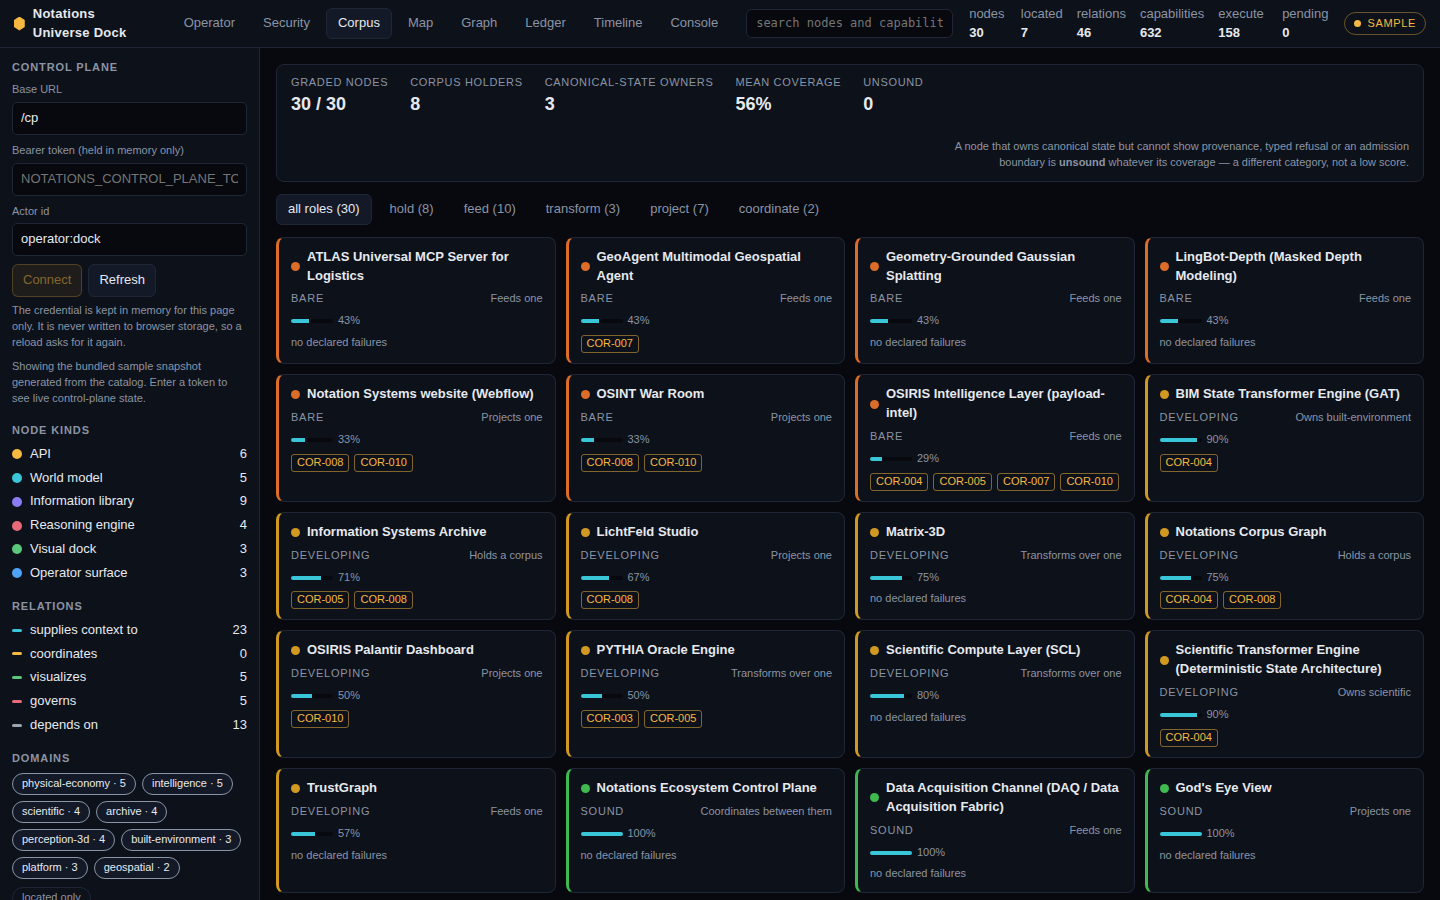
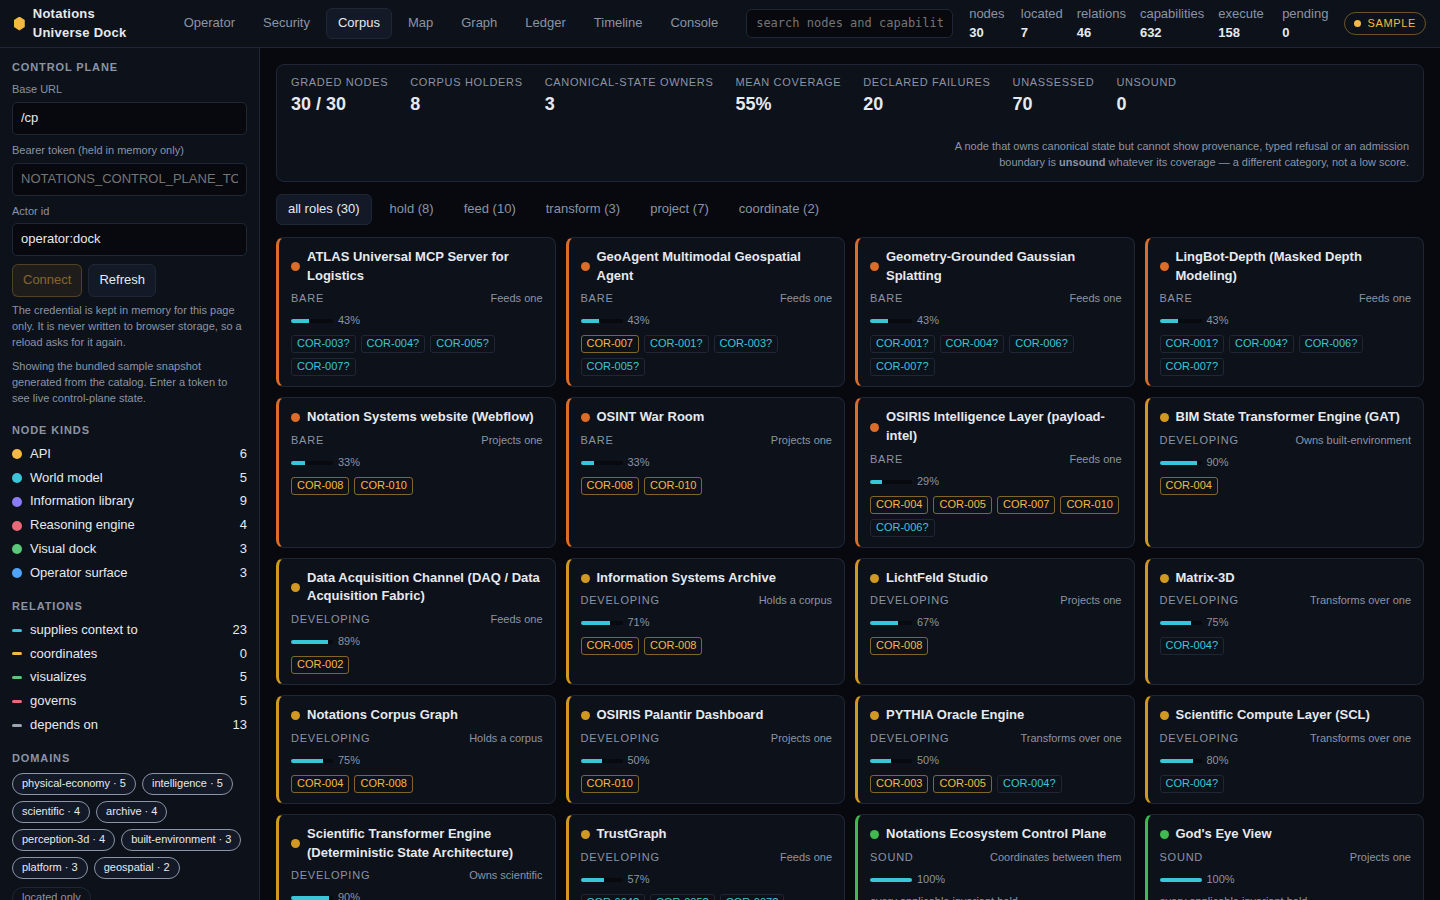
fix(corpus): an exemption hid a single-owner violation, and silence read as assent
Two defects in the instrument, found by reading the catalog back against
the doctrine.

The Data Acquisition Channel declared COR-002 `exempt` because "STE
promotes, and DAQ must never write canonical state directly" — true of
the scientific vertical the note was written about, and silent about the
second half of its own holding sentence. commerce/ holds the Notation
Physical Commerce ledger: commerce.cli.commit is the only command that
writes it, commerce.tender.issue is "the single function that binds the
firm to a counterparty", commerce.outbound.send is the wire boundary, and
the resource is classified sensitive with "commitments bind the firm".
That is a second freight-commitment record, in a domain payload-terminal
declares it owns, inside a node whose declared domain is scientific. The
exemption removed the invariant from the count, so the grader could not
see it. DAQ now declares COR-002 failed and says exactly why, and the
doctrine states the general rule: read an exemption back against the
holding sentence, and if the sentence names something the exemption does
not mention, the exemption is incomplete.

The grader now also reports domains with **no** declared owner. COR-002
says at most one owner; it never said every domain has one, and an
unowned domain is precisely where a second owner turns up unannounced.
Five of eight are unowned today, and UNIVERSE.md records where the
commerce ledger should go once Sea Dog Terminal unfreezes.
[…]

diff --git a/dock/src/lenses/CorpusLens.tsx b/dock/src/lenses/CorpusLens.tsx
@@ -111,6 +111,14 @@ export function CorpusLens({ filtered, selected, onSelect }: LensProps) {
           <b>{mean === null ? '—' : `${mean}%`}</b>
         </div>
         <div className="kpi">
+          <span>declared failures</span>
+          <b>{graded.reduce((sum, entry) => sum + entry.standing.fails.length, 0)}</b>
+        </div>
+        <div className="kpi">
+          <span>unassessed</span>
+          <b>{graded.reduce((sum, entry) => sum + entry.standing.unknown.length, 0)}</b>
+        </div>
+        <div className="kpi">
           <span>unsound</span>
           <b style={{ color: unsound.length ? CORPUS_GRADE_COLOR.unsound : undefined }}>{unsound.length}</b>
         </div>
@@ -157,16 +165,21 @@ export function CorpusLens({ filtered, selected, onSelect }: LensProps) {
             <span className="sec-meta">
               <Coverage value={standing.coverage} />
             </span>
-            {standing.fails.length ? (
-              <span className="sec-findings" title="Invariants this node declares it does not hold. Declaring a failure by name is the point; silence would be worse.">
+            {standing.fails.length || standing.unknown.length ? (
+              <span className="sec-findings">
                 {standing.fails.map((id) => (
-                  <span key={id} className="sec-count high">
+                  <span key={id} className="sec-count high" title="Declared not held. Naming a failure is the point; silence would be worse.">
                     {id}
+                  </span>
+                ))}
+                {standing.unknown.map((id) => (
+                  <span key={id} className="sec-count medium" title="Not yet assessed. Counts against the node — silence is not assent.">
+                    {id}?
                   </span>
                 ))}
               </span>
             ) : (
-              <span className="sec-findings none">no declared failures</span>
+              <span className="sec-findings none">every applicable invariant held</span>
             )}
           </button>
         ))}

diff --git a/dock/test/corpus.test.ts b/dock/test/corpus.test.ts
@@ -11,7 +11,7 @@ const node = (metadata: Record<string, string | number | boolean>): SnapshotNode
 describe('corpus standing', () => {
   it('reads the derived metadata the seed writes, and nothing else', () => {
     const standing = corpusStanding(node({ corpus_role: 'hold', corpus_grade: 'sound', corpus_coverage: 1 }));
-    expect(standing).toEqual({ role: 'hold', grade: 'sound', coverage: 1, fails: [], ownerOf: [] });
+    expect(standing).toEqual({ role: 'hold', grade: 'sound', coverage: 1, fails: [], unknown: [], ownerOf: [] });
   });
 
   it('splits declared failures so each names an invariant', () => {
@@ -28,6 +28,14 @@ describe('corpus standing', () => {
     const standing = corpusStanding(node({ corpus_role: 'sovereign', corpus_grade: 'sound' }));
     expect(standing?.role).toBeNull();
     expect(standing?.grade).toBe('sound');
+  });
+
+  it('keeps unassessed invariants distinct from held ones', () => {
+    // Without this a node with no declared failures reads as one that holds everything,
+    // and "not assessed" becomes "passed".
+    const standing = corpusStanding(node({ corpus_role: 'feed', corpus_grade: 'bare', corpus_coverage: 0.43, corpus_unknown: 'COR-003 COR-004' }));
+    expect(standing?.unknown).toEqual(['COR-003', 'COR-004']);
+    expect(standing?.fails).toEqual([]);
   });
 
   it('never treats a missing coverage as zero', () => {

diff --git a/dock/src/model/types.ts b/dock/src/model/types.ts
@@ -142,6 +142,8 @@ export interface CorpusStanding {
   grade: CorpusGrade;
   coverage: number | null;
   fails: string[];
+  /** Invariants not yet assessed. Silence is not assent, so these count against a node. */
+  unknown: string[];
   /** Domains whose canonical state this node owns. Holding a corpus is not owning one. */
   ownerOf: string[];
 }
@@ -159,6 +161,7 @@ export function corpusStanding(node: SnapshotNode): CorpusStanding | null {
     grade: grade as CorpusGrade,
     coverage: typeof coverage === 'number' ? coverage : null,
     fails: words(fails),
+    unknown: words(node.metadata.corpus_unknown),
     ownerOf: words(ownerOf),
   };
 }

diff --git a/ecosystem/UNIVERSE.md b/ecosystem/UNIVERSE.md
@@ -25,9 +25,13 @@ applicable, where a role structurally exempts the invariants it cannot be about.
 | unbuilt (an empty repository) | `building-information-corpus`, `building-information-graph`, `network-scout-signal-miner`, `notations-archival-swarm`, `notations-energy-modulator`, `payload-corpus-graph` |
 | unsound | none |
 
-Mean coverage across graded nodes is 0.56. Eight nodes hold a corpus; three own a domain's
-canonical state (`payload-terminal` → physical-economy, `scientific-transformer-engine` →
-scientific, `bim-state-transformer-engine` → built-environment), which is COR-002 holding.
+Mean coverage across graded nodes is 0.55, and twenty invariants are declared failed by
+name. Eight nodes hold a corpus; three own a domain's canonical state
+(`payload-terminal` → physical-economy, `scientific-transformer-engine` → scientific,
+`bim-state-transformer-engine` → built-environment). Five of the eight domains —
+intelligence, perception-3d, geospatial, archive, platform — have no declared owner, and
+`node ecosystem/corpus.mjs` reports that, because an unowned domain is where a second
+owner appears unannounced.
 
 What the grading makes visible that prose did not:
 
@@ -47,6 +51,15 @@ What the grading makes visible that prose did not:
   person-profiling services and still serve the routes.
 - **Six planned repositories are graded `unbuilt` rather than omitted**, so the distance
   between the intended estate and the built one is a number.
+- **The physical economy has two commitment records.** `data-acquisition-channel` declares
+  COR-002 failed: `commerce/` holds the Notation Physical Commerce ledger, whose
+  `commerce.tender.issue` is "the single function that binds the firm to a counterparty"
+  and whose `commerce.outbound.send` is the wire boundary, inside a node whose declared
+  domain is scientific and in a domain `payload-terminal` declares it owns. It is parked
+  there while Sea Dog Terminal is frozen. The declaration was originally `exempt`,
+  argued entirely about the scientific vertical, and the exemption concealed the
+  violation — which is why the doctrine now requires an exemption to account for every
+  holding a node names.
 
 ## 3. Domains
 
@@ -187,6 +200,17 @@ Operations, exposure and durability
 - The data archive is replicated GitHub-to-GitHub, not backed up off-provider; only one capture day (2026-08-27) is mirrored; the test suite has been observed writing new Comtrade captures (2026-08-31); five captures are 11-byte empty bodies of unknown meaning.
 - DAQ Phase 0 (one real transaction) is undischarged; QCMobile, ORS, load-board terms, AIS and LME are blocked on a person.
 - The SCL CUDA backend has never executed on a GPU; STE's EvidencePool, VersionStore and OperationTrace are in-memory only.
+
+Corpus ownership
+- Where does the Notation Physical Commerce ledger belong once Sea Dog Terminal unfreezes:
+  into `payload-terminal` as part of the physical-economy canonical state, or into a node
+  of its own that owns freight commitments? Until it moves, COR-002 does not hold for the
+  physical economy.
+- Five domains have no declared canonical-state owner. `intelligence` and `geospatial`
+  contain only mirrors and projections, which may be the right answer; `archive` and
+  `perception-3d` each contain a node that holds material (`information-systems-archive`,
+  `geometry-grounded-gaussian-splatting`) without claiming to own the domain's state.
+  `platform` is owned by nothing because the coordination journal is not a domain state.
 
 Policy
 - `osiris-intel` still resolves natural persons and returns RIPE abuse contacts as person nodes; `osiris-dashboard` still serves person-targeting routes; `osint-war-room` hardcodes an AIS key and pins scraping libraries no route uses. The universe-level collection policy should be declared once and applied to the forks.

diff --git a/docs/CORPUS.md b/docs/CORPUS.md
@@ -48,6 +48,14 @@ from that system's catalog entry and the evidence path it cites.
 | COR-009 | **Outward-only projection.** A projection never writes back to the state it renders. | A globe, a dock, an SVG that hold nothing | A viewer with an edit button wired to the store |
 | COR-010 | **Declared refusal to hold.** The system names what it must never hold or become, and enforces it. | "must never become a person-intelligence tool", gated in CI | Silence, and therefore drift |
 
+**On COR-010's evidence.** A refusal recorded only in this catalog is weaker than one
+enforced in the system it is about, and the evidence path should say which it is. Where
+the system enforces its own refusal — the terminal's CI gate over every route, the OCR
+agent's `docs/BOUNDARIES.md` with tests auditing the source tree — cite that. Where the
+only record is `ecosystem/catalog/<node>.json`, the refusal is this estate's policy about
+a system rather than the system's own guarantee, and it is worth knowing which nodes are
+in that position: today, most of the upstream mirrors.
+
 ### Why ten, and why these
 
 Each one already appears somewhere in this estate as a property some system was built to
@@ -76,6 +84,27 @@ are not failures, and keeping them distinct is what makes the instrument honest.
 **`exempt` is not a hiding place.** It must carry a reason, and the reason must be
 structural rather than circumstantial: a dock is exempt from COR-006 because it admits
 nothing, not because admission has not been built yet. "Not built yet" is `fails`.
+
+**An exemption must account for every holding the node names, not its principal one.**
+This is the failure mode worth stating, because it happened here. The Data Acquisition
+Channel declared COR-002 `exempt` on the ground that "STE promotes, and DAQ must never
+write canonical state directly" — true of the scientific vertical it was written about,
+and silent about the second half of its own holding sentence: the Notation Physical
+Commerce ledger, whose `commerce.cli.commit` is the only command that writes it,
+`commerce.tender.issue` is "the single function that binds the firm to a counterparty",
+and `commerce.outbound.send` is the wire boundary. That is a freight-commitment record in
+a domain `payload-terminal` declares it owns, inside a node whose declared domain is
+scientific. An exemption argued about one holding concealed a violation in another, and
+the grader could not see it because the exemption removed the invariant from the count.
+DAQ now declares COR-002 `fails` and says why.
+
+The general form: read the exemption back against the `holding` sentence. If the sentence
+names something the exemption does not mention, the exemption is incomplete.
+
+The instrument reports **domains with no declared owner** for the same reason. COR-002
+says at most one owner; it does not say every domain has one, and an unowned domain is
+exactly where a second owner turns up unannounced. Five of the estate's eight are
+currently unowned.
 
 The distinction matters most for the two node types that hold no domain material:
 
